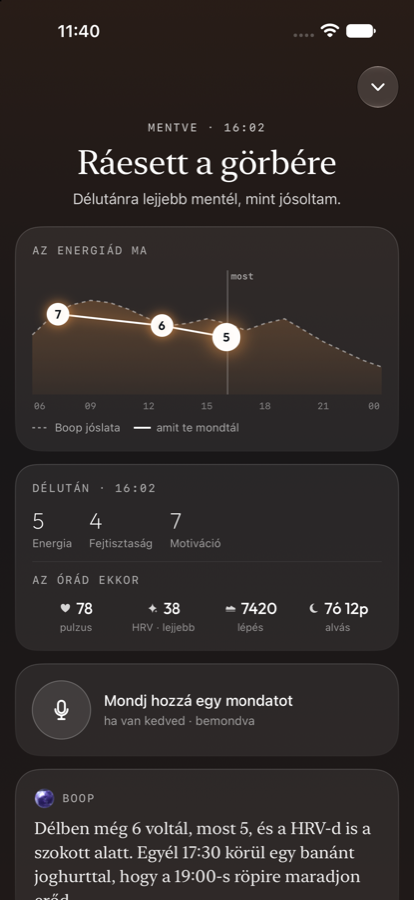
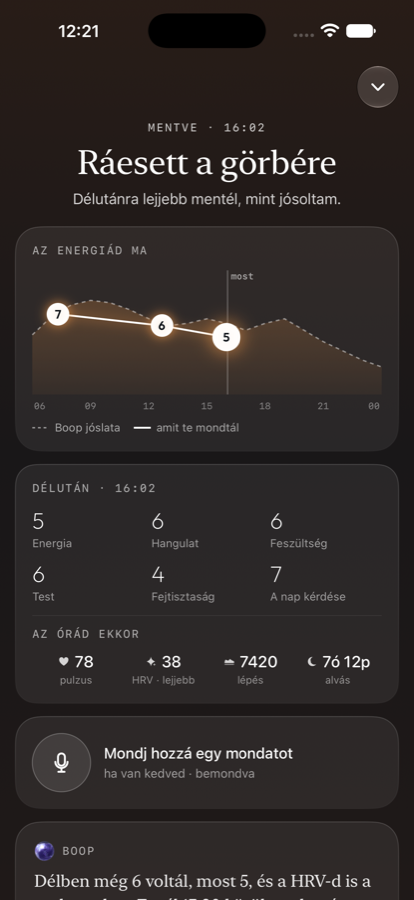
docs(boop): B3 spike — check-in = five core items every time + one question of the day, 'Most csak ennyi' after the first (owner decision) (mezo-r36n9.13)

diff --git a/docs/design_2.0/prototypes/boop-ios-spike/BoopSpike/RitmusLock.swift b/docs/design_2.0/prototypes/boop-ios-spike/BoopSpike/RitmusLock.swift
@@ -13,7 +13,8 @@ struct RitmusLock: View {
     @State private var mode = RArg.open == "widget" ? 1 : 0
     @State private var wIdx = 0
     @State private var wVals: [Int] = []
-    private let wQs = [("ENERGIA", "Mennyi energia van benned most?"), ("FEJTISZTASÁG", "Mennyire tiszta a fejed?"), ("MOTIVÁCIÓ", "Kedv a röpihez?")]
+    private let wQs = [("ENERGIA", "Mennyi energia van benned most?"), ("HANGULAT", "Milyen a hangulatod?"), ("FESZÜLTSÉG", "Mennyire vagy feszült?"),
+                       ("TEST", "Hogy érzed a tested?"), ("FEJTISZTASÁG", "Mennyire tiszta a fejed?"), ("A NAP KÉRDÉSE", "Kedv a ma esti röpihez?")]
 
     var body: some View {
         ZStack {
@@ -57,7 +58,7 @@ struct RitmusLock: View {
             Text("kedd, november 11.").font(.system(size: 19, weight: .semibold)).foregroundStyle(.white.opacity(0.9)).padding(.top, 34)
             Text("16:00").font(.system(size: 92, weight: .semibold, design: .rounded)).foregroundStyle(.white.opacity(0.95))
             VStack(spacing: 10) {
-                notif(time: "most", title: "Délutáni kitöltés", body: "Mennyi energia van benned most? · 3 kérdés, 3 koppintás", action: onOpenCheckin)
+                notif(time: "most", title: "Délutáni kitöltés", body: "Mennyi energia van benned most? · 6 kérdés, fél perc", action: onOpenCheckin)
                 notif(time: "21:30", title: "Zárjuk le a napot", body: "Egy perc: hogy vagy, sikerült-e a prezentáció, milyen volt a nap.", action: onOpenEste, dim: true)
             }
             .padding(.horizontal, 12).padding(.top, 150)
@@ -110,11 +111,16 @@ struct RitmusLock: View {
                 StillOrb(colors: SunMetric.all[0].orb, size: 20, level: 0.8)
                 Text(wIdx < wQs.count ? wQs[wIdx].0 : "KÉSZ").font(AuraFont.mono(11, .semibold)).tracking(1.2).foregroundStyle(.white.opacity(0.75))
                 Spacer()
-                if wIdx < wQs.count { Text("\(wIdx + 1)/3").font(AuraFont.mono(11)).foregroundStyle(.white.opacity(0.55)) }
+                if wIdx < wQs.count { Text("\(wIdx + 1)/\(wQs.count)").font(AuraFont.mono(11)).foregroundStyle(.white.opacity(0.55)) }
             }
             if wIdx < wQs.count {
-                Text(wQs[wIdx].1).font(AuraFont.serif(19)).foregroundStyle(.white).lineLimit(1).minimumScaleFactor(0.8)
-                    .id(wIdx).transition(.opacity)
+                HStack {
+                    Text(wQs[wIdx].1).font(AuraFont.serif(19)).foregroundStyle(.white).lineLimit(1).minimumScaleFactor(0.8)
+                        .id(wIdx).transition(.opacity)
+                    Spacer()
+                    if wIdx >= 1 { Text("Ennyi").font(.system(size: 13, weight: .semibold)).foregroundStyle(.white.opacity(0.8))
+                        .onTapGesture { withAnimation { wIdx = wQs.count } } }
+                }
                 VStack(spacing: 8) {
                     ForEach(0..<2, id: \.self) { r in
                         HStack(spacing: 8) {
@@ -130,7 +136,7 @@ struct RitmusLock: View {
                 }
             } else {
                 HStack(spacing: 18) {
-                    ForEach(Array(zip(wQs, wVals)), id: \.0.0) { q, v in
+                    ForEach(Array(zip(wQs, wVals).prefix(4)), id: \.0.0) { q, v in
                         VStack(alignment: .leading, spacing: 2) {
                             Text("\(v)").font(.custom("Outfit", size: 28).weight(.light)).foregroundStyle(.white)
                             Text(q.0.capitalized).font(.system(size: 11)).foregroundStyle(.white.opacity(0.6))
@@ -138,7 +144,7 @@ struct RitmusLock: View {
                     }
                     Spacer()
                 }
-                Text("16:02 · 3 koppintás").font(AuraFont.mono(11)).foregroundStyle(.white.opacity(0.55))
+                Text("16:02 · \(wVals.count) koppintás").font(AuraFont.mono(11)).foregroundStyle(.white.opacity(0.55))
             }
         }
         .padding(16)

diff --git a/docs/design_2.0/prototypes/boop-ios-spike/BoopSpike/RitmusCheckin.swift b/docs/design_2.0/prototypes/boop-ios-spike/BoopSpike/RitmusCheckin.swift
@@ -12,10 +12,14 @@ struct RitmusCheckin: View {
     var onClose: () -> Void
 
     struct Q { let key, label, question: String; let hue: Int; var why: String? = nil }
+    // the five core items every time (continuous curves) + ONE "question of the day" (slot / what Boop watches)
     private let qs: [Q] = [
         .init(key: "energy", label: "Energia", question: "Mennyi energia van benned most?", hue: 2),
+        .init(key: "mood", label: "Hangulat", question: "Milyen a hangulatod?", hue: 4),
+        .init(key: "stress", label: "Feszültség", question: "Mennyire vagy feszült?", hue: 0),
+        .init(key: "body", label: "Test", question: "Hogy érzed a tested?", hue: 3),
         .init(key: "mental", label: "Fejtisztaság", question: "Mennyire tiszta a fejed?", hue: 1),
-        .init(key: "motivation", label: "Motiváció", question: "Mennyire van kedved a ma esti röpihez?", hue: 4,
+        .init(key: "motivation", label: "A nap kérdése", question: "Mennyire van kedved a ma esti röpihez?", hue: 4,
               why: "Edzésnap van — azt figyelem, a délutáni kedved megjósolja-e, milyen lesz a játék."),
     ]
     @State private var i = 0
@@ -58,7 +62,16 @@ struct RitmusCheckin: View {
                         }
                     }
                     Spacer()
-                    Text("Délután · 16:02").font(AuraFont.mono(12)).foregroundStyle(.white.opacity(0.75)).fixedSize().frame(width: 120, alignment: .trailing)
+                    Group {
+                        if i >= 1 {
+                            Button("Most csak ennyi") { taps += 1; save() }
+                                .font(.system(size: 13, weight: .semibold)).foregroundStyle(.white)
+                                .padding(.horizontal, 12).frame(height: 34).glassEffect(.clear.interactive(), in: .capsule)
+                        } else {
+                            Text("Délután · 16:02").font(AuraFont.mono(12)).foregroundStyle(.white.opacity(0.75)).fixedSize()
+                        }
+                    }
+                    .frame(width: 130, alignment: .trailing)
                 }
                 .padding(.horizontal, 16).padding(.top, 8)
 
@@ -124,11 +137,19 @@ struct RitmusCheckin: View {
     }
 
     /// Starts from the last answer of the day (energy: noon's 6), so "same as before" is one tap on Tovább.
-    private var previous: [String: Int] { ["energy": day.checkins.last?.energy ?? 5] }
+    private var previous: [String: Int] {
+        var d = ["energy": day.checkins.last?.energy ?? 5]
+        for (l, v) in day.checkins.last?.others ?? [] { if let q = qs.first(where: { $0.label == l }) { d[q.key] = v } }
+        return d
+    }
     private var v: Int { values[q.key] ?? previous[q.key] ?? 5 }
 
     private func advance() {
         if i < qs.count - 1 { withAnimation(.easeInOut(duration: 0.45)) { i += 1 }; return }
+        save()
+    }
+
+    private func save() {
         // third answer = saved (on the phone first; sent now, or later when offline)
         seconds = max(1, Int(Date().timeIntervalSince(started)))
         let others = qs.dropFirst().compactMap { q in values[q.key].map { (q.label, $0) } }

diff --git a/docs/design_2.0/prototypes/boop-ios-spike/BoopSpike/RitmusParts.swift b/docs/design_2.0/prototypes/boop-ios-spike/BoopSpike/RitmusParts.swift
@@ -37,9 +37,9 @@ struct RCheckin: Identifiable, Equatable {
     var eveningEnergy: Int? = nil
     var journal: String? = nil
     var checkins: [RCheckin] = [
-        RCheckin(t: 7.33, time: "07:20", slot: "Reggel", energy: 7, others: [("Kipihentség", 7), ("Izomláz", 3)],
+        RCheckin(t: 7.33, time: "07:20", slot: "Reggel", energy: 7, others: [("Hangulat", 8), ("Feszültség", 3), ("Test", 7), ("Fejtisztaság", 8), ("Kipihentség", 7)],
                  snap: RSnapshot(hr: 61, hrv: 52, hrvUsual: 50, steps: 320, sleep: "7ó 12p")),
-        RCheckin(t: 12.67, time: "12:40", slot: "Délben", energy: 6, others: [("Feszültség", 5), ("Éhség", 7)],
+        RCheckin(t: 12.67, time: "12:40", slot: "Délben", energy: 6, others: [("Hangulat", 7), ("Feszültség", 5), ("Test", 6), ("Fejtisztaság", 6), ("Éhség", 7)],
                  note: "Hosszú volt a workshop, kicsit leeresztettem.",
                  snap: RSnapshot(hr: 74, hrv: 41, hrvUsual: 50, steps: 4_860, sleep: "7ó 12p")),
     ]
@@ -54,9 +54,9 @@ struct RCheckin: Identifiable, Equatable {
 
     init() {
         let o = RArg.open
-        if o == "checkinDone" { addAfternoon(energy: 5, others: [("Fejtisztaság", 4), ("Motiváció", 7)]) }
+        if o == "checkinDone" { addAfternoon(energy: 5, others: [("Hangulat", 6), ("Feszültség", 6), ("Test", 6), ("Fejtisztaság", 4), ("A nap kérdése", 7)]) }
         if o == "esteDone" || o == "checkinDone" { goal = "Ügyfélprezentáció 14:00"; planAccepted = true }
-        if o == "esteDone" { addAfternoon(energy: 5, others: [("Fejtisztaság", 4), ("Motiváció", 7)])
+        if o == "esteDone" { addAfternoon(energy: 5, others: [("Hangulat", 6), ("Feszültség", 6), ("Test", 6), ("Fejtisztaság", 4), ("A nap kérdése", 7)])
             closed = true; dayRating = 4; goalOutcome = 0; eveningEnergy = 4
             journal = "Jól ment a prezentáció, a röpi után kellemesen elfáradtam. A vacsora kicsit késő lett." }
     }
@@ -270,10 +270,9 @@ struct RCheckinDetail: View {
                 Spacer()
                 if c.pending { ROfflineGlyph(color: .white.opacity(0.6), size: 14); Text("még a telefonon").font(.system(size: 12)).foregroundStyle(.white.opacity(0.6)) }
             }
-            HStack(spacing: 18) {
+            LazyVGrid(columns: Array(repeating: GridItem(.flexible(), alignment: .leading), count: 3), alignment: .leading, spacing: 10) {
                 answer("Energia", c.energy)
                 ForEach(c.others, id: \.0) { answer($0.0, $0.1) }
-                Spacer()
             }
             if let n = c.note {
                 Text("„\(n)”").font(AuraFont.serif(16)).foregroundStyle(.white.opacity(0.85))

diff --git a/docs/design_2.0/prototypes/boop-ios-spike/BoopSpike/RitmusRoot.swift b/docs/design_2.0/prototypes/boop-ios-spike/BoopSpike/RitmusRoot.swift
@@ -103,7 +103,7 @@ struct RitmusPlus: View {
         VStack(alignment: .leading, spacing: 14) {
             Text("Rögzítés").font(AuraFont.serif(28)).foregroundStyle(.white).padding(.top, 26)
             LazyVGrid(columns: [GridItem(.flexible(), spacing: 10), GridItem(.flexible(), spacing: 10)], spacing: 10) {
-                tile("pen-sun", "Kitöltés", "3 kérdés · 3 koppintás", "checkin")
+                tile("pen-sun", "Kitöltés", "6 kérdés · fél perc", "checkin")
                 tile("spark-cream", "Esti zárás", "egy perc", "este")
                 tile("bowl-cream", "Étkezés", "B4-ben jön", "Étkezés · B4")
                 tile("dumbbell-ink", "Edzés", "B5-ben jön", "Edzés · B5")
